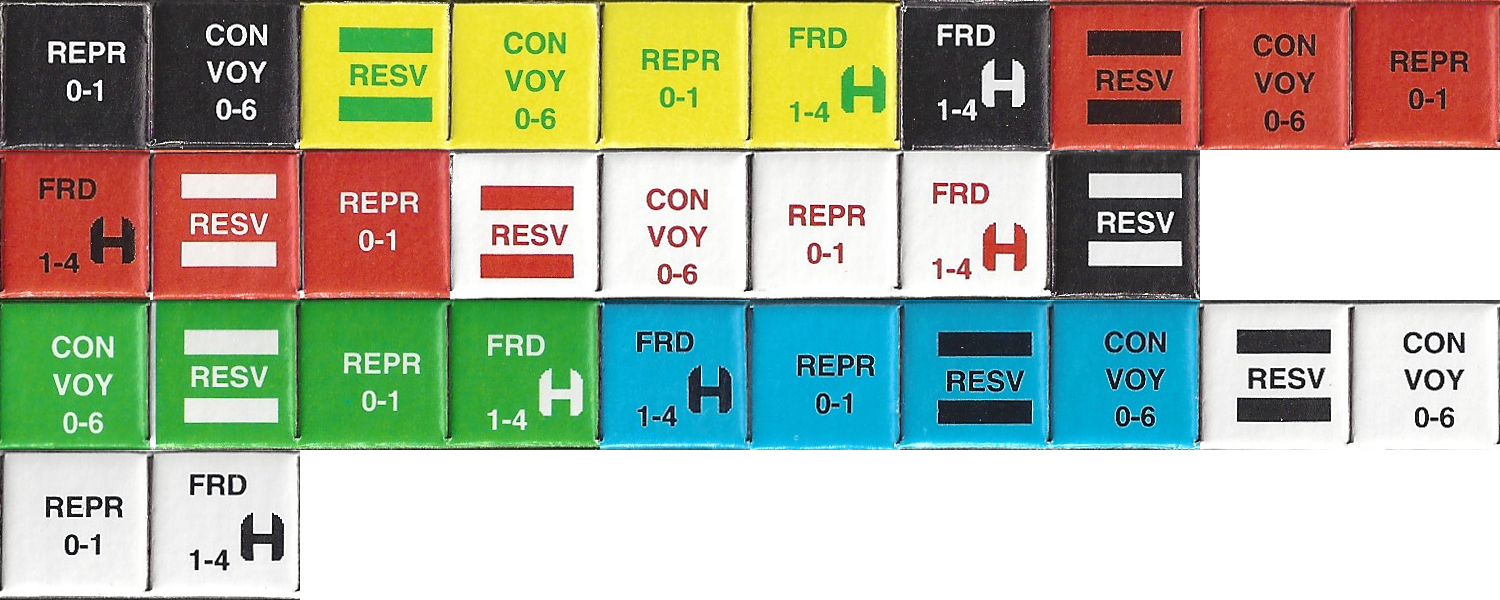
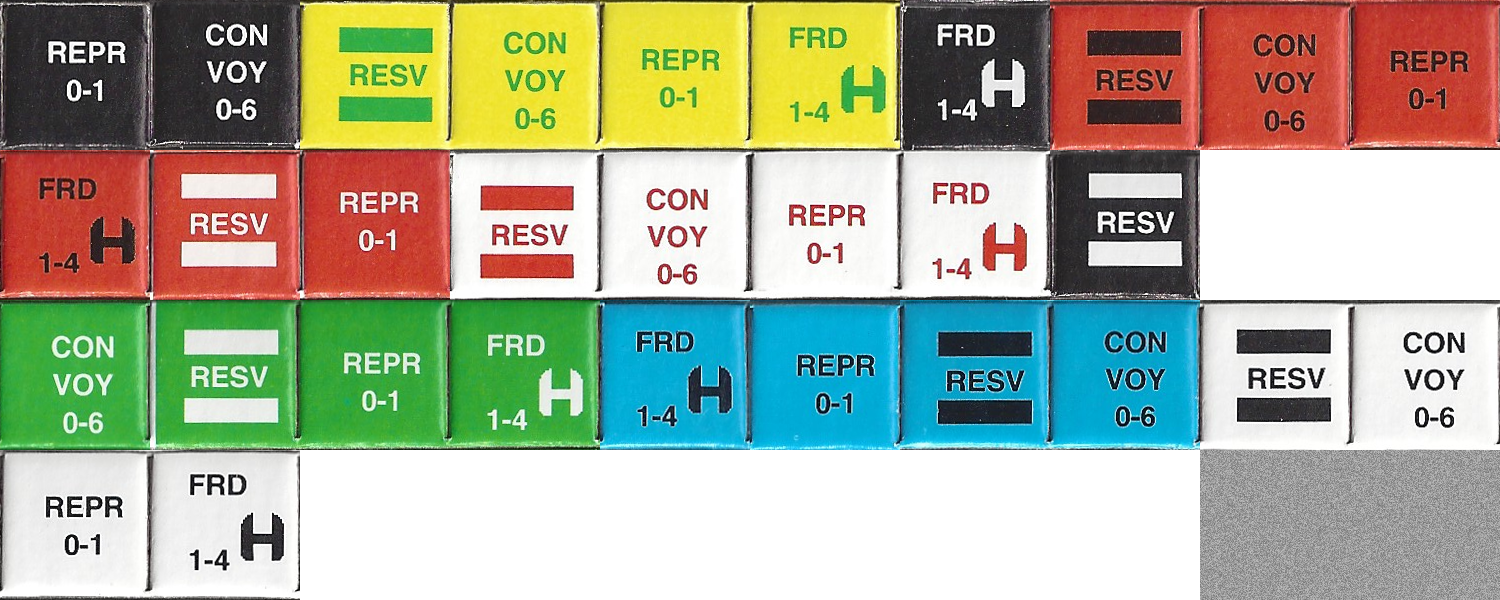
Add noisy-gray side textures to counters, and reimported all counter textures with 0 aniso and trilinear filtering.

Changed region(s): [[0.7973, 0.75, 1.0, 1.0]]

diff --git a/unity_project/Assets/counter.js b/unity_project/Assets/counter.js
@@ -171,8 +171,8 @@ private function build_mesh ()
     var i = 0;
 
     for (i = 0; i < uv.Length / 4; ++i) {
-        var uv_min = Vector2(0, 0);
-        var uv_max = Vector2(1, 1);
+        var uv_min = Vector2(0.91, 0.01);
+        var uv_max = Vector2(0.99, 0.24);
         if (i == 0) {
             uv_min = counter_.uncrippled_side.uv_min;
             uv_max = counter_.uncrippled_side.uv_max;
